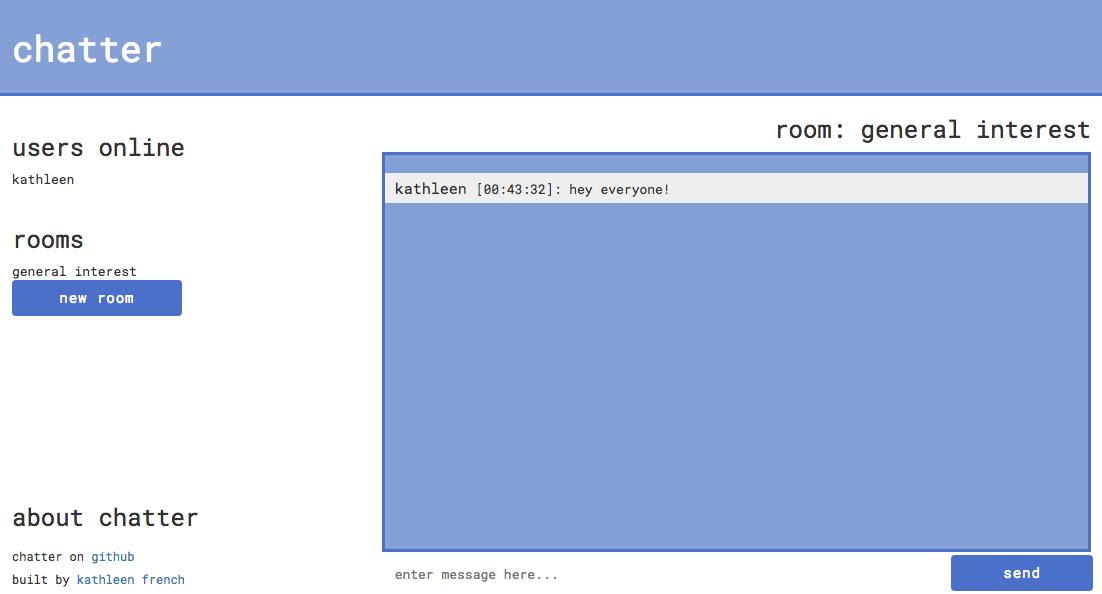
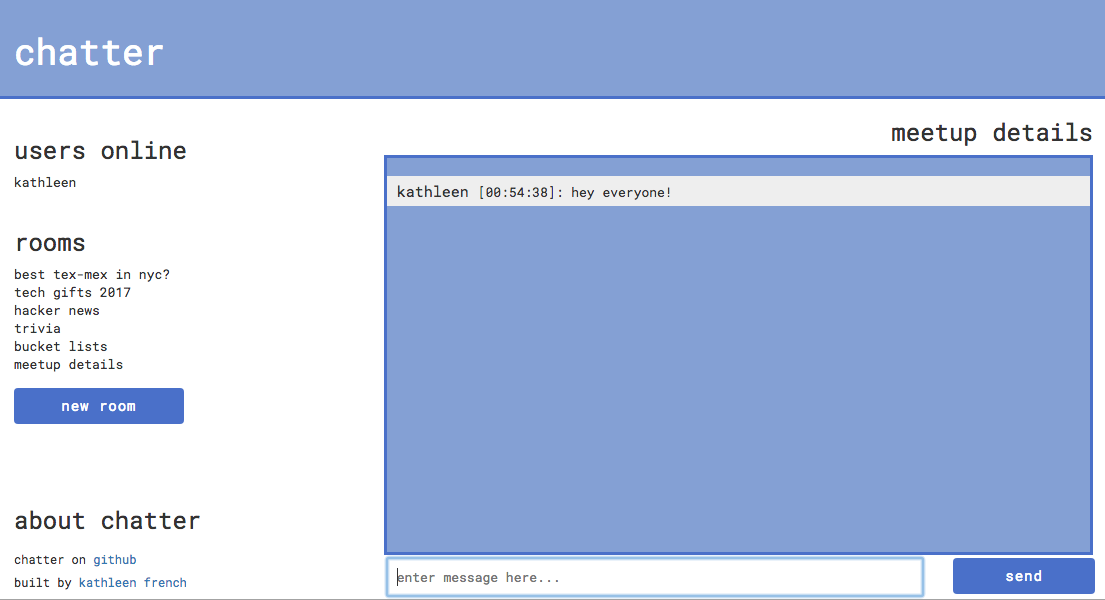
update screenshot

diff --git a/scripts.js b/scripts.js
@@ -60,6 +60,7 @@ function bindDOMEvents(){
 
     $('#createRoom').on('click', function(){
         console.log('click create room event');
+        $('#chatlog-header').empty();
         createRoom();
     })
 }
@@ -300,7 +301,7 @@ function bindSocketEvents(){
         socket.on('roomslist', function(data){
         for (var i = 0, len = data.rooms.length; i < len; i++){
             if (data.rooms[i] !== ''){
-                addRoom(data.rooms[i], false);
+                createRoom(data.rooms[i], false);
             }
         }
     })

diff --git a/styles.css b/styles.css
@@ -163,6 +163,7 @@ p, a {
 
 #createRoom {
     width: 50%;
+    margin-top: 15px;
 }
 
 li#online.room {
